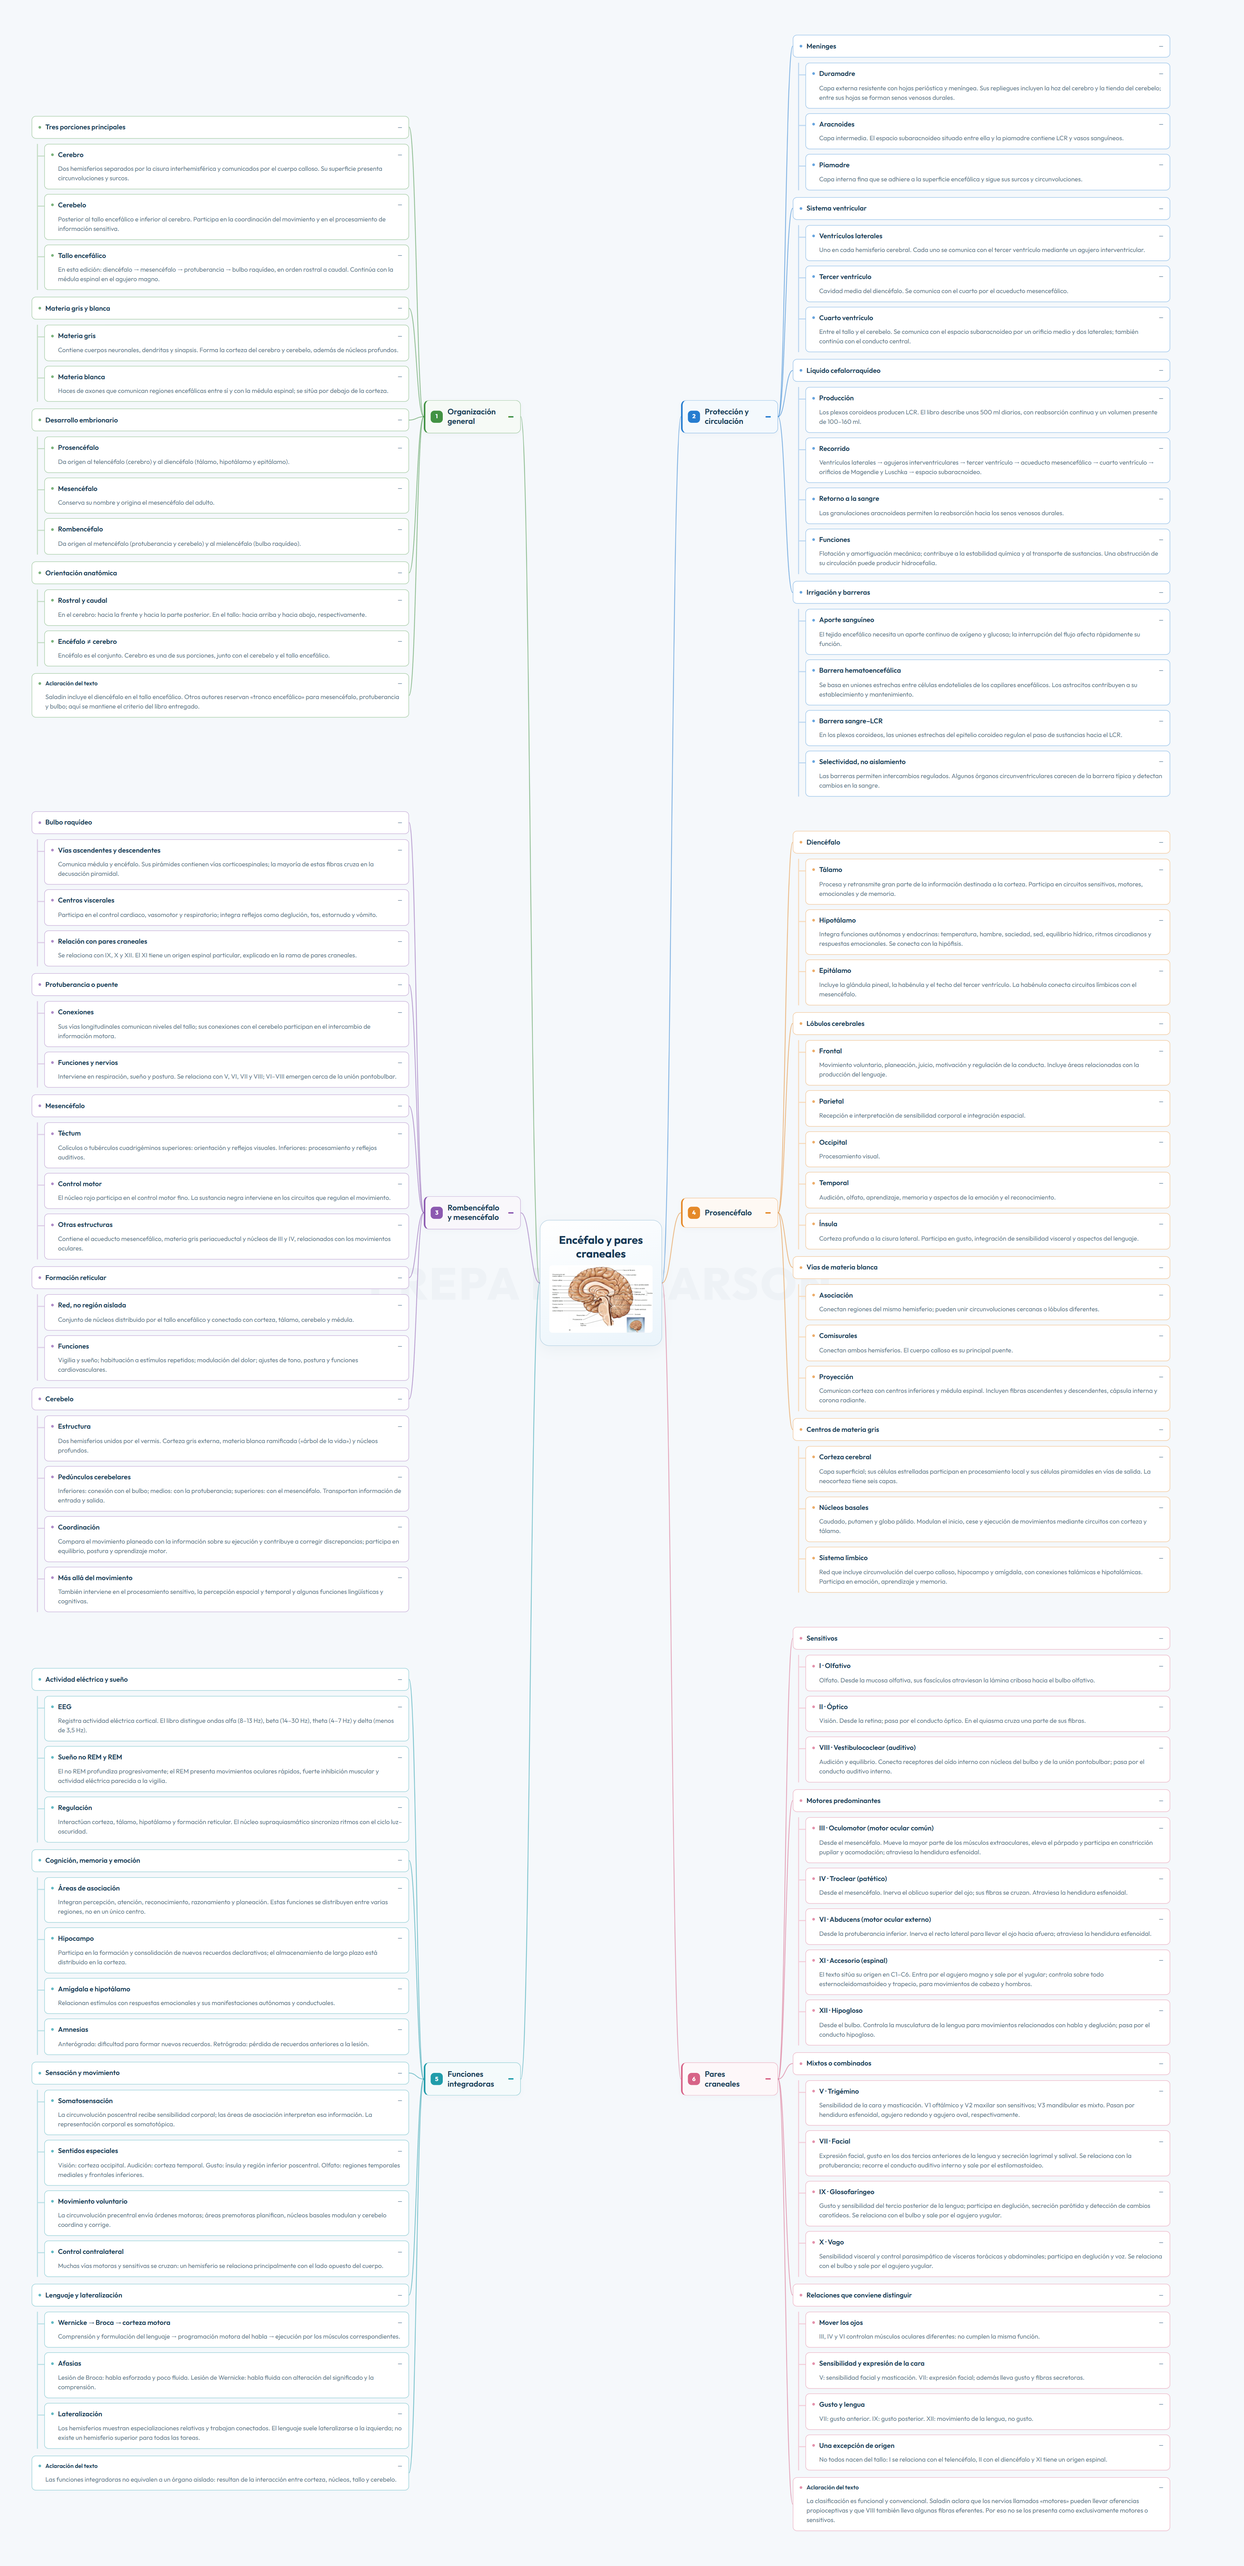
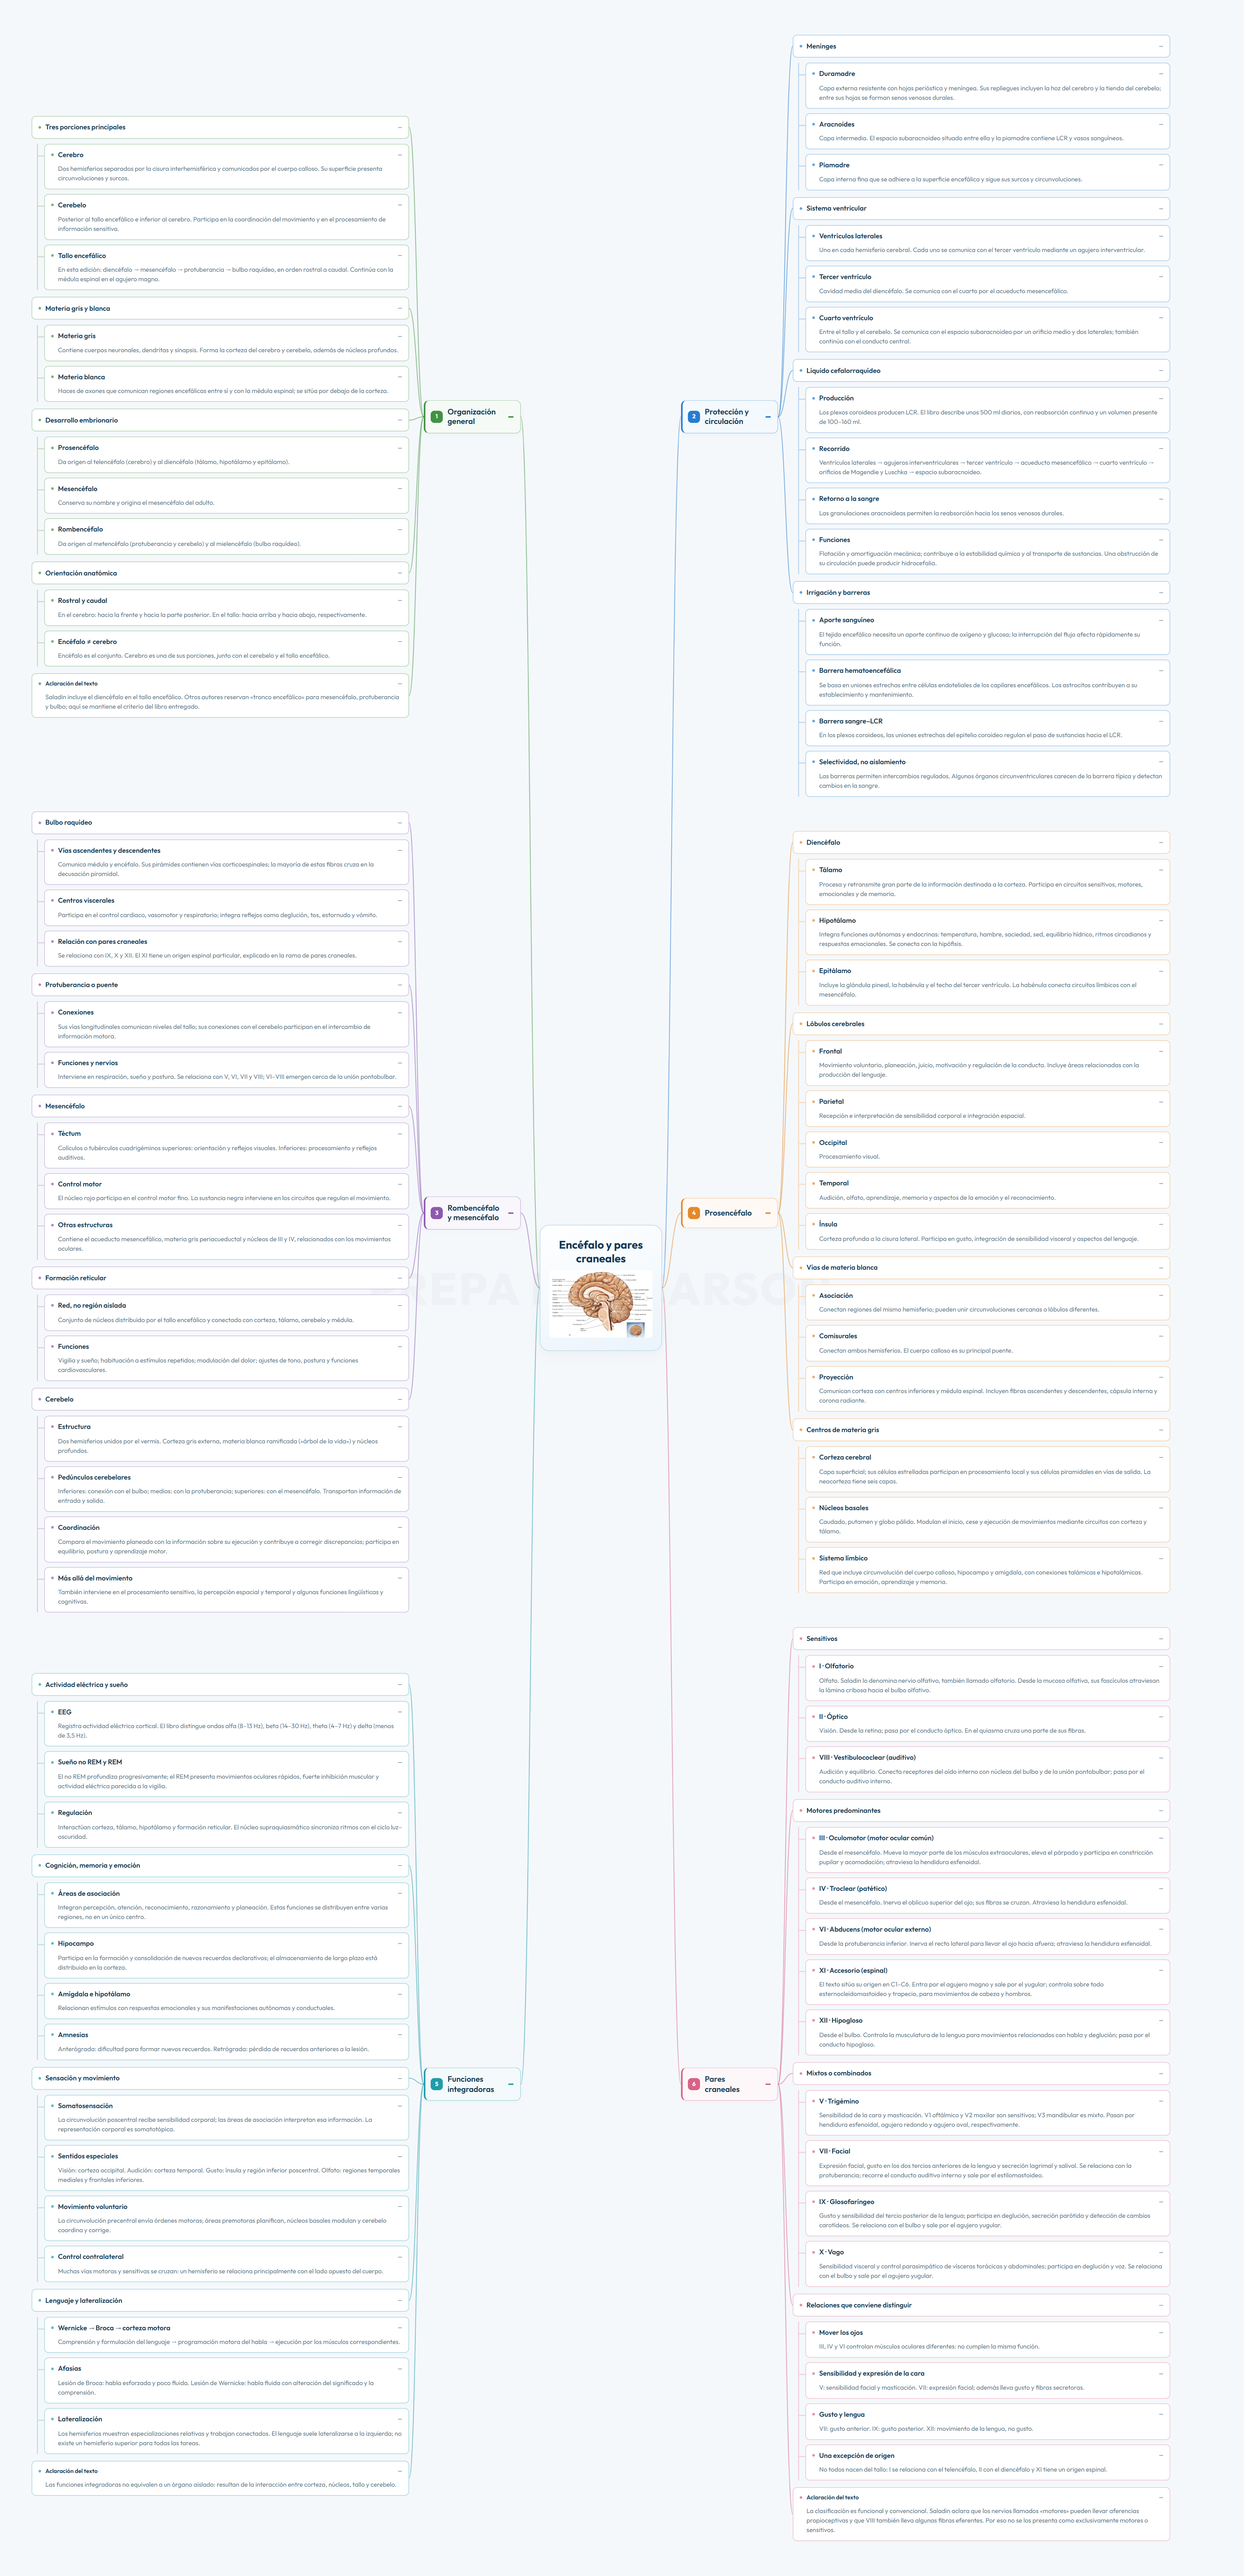
Clarify olfactory nerve label against supplied Saladin text

diff --git a/mindmap-viewer.js b/mindmap-viewer.js
@@ -88,7 +88,7 @@
   $('mm-branch-all').addEventListener('click',function(){setAll(true);});$('mm-branch-none').addEventListener('click',function(){setAll(false);});
   $('mm-tools-toggle').addEventListener('click',function(){var bar=$('mm-lightbox').querySelector('.mm-branch-bar'),open=!bar.classList.contains('is-expanded');bar.classList.toggle('is-expanded',open);$('mm-tools-toggle').setAttribute('aria-expanded',String(open));fit();});
   $('mm-true-fullscreen').addEventListener('click',function(){var viewer=$('mm-lightbox');if(document.fullscreenElement===viewer)document.exitFullscreen();else if(viewer.requestFullscreen)viewer.requestFullscreen().catch(function(){});});
-  $('mm-lb-download').addEventListener('click',function(){if(!objectUrl&&!detailsFor(activeMap))return;var link=el('a','');link.href=detailsFor(activeMap)?'/assets/mindmaps/encefalo/mapa-completo.png?v=1':objectUrl;link.download=detailsFor(activeMap)?'Encefalo-y-pares-craneales-Ben-Carson.png':fileFor(activeMap).replace(/\.[^.]+$/,'')+'-prepa-ben-carson.webp';document.body.appendChild(link);link.click();link.remove();});
+  $('mm-lb-download').addEventListener('click',function(){if(!objectUrl&&!detailsFor(activeMap))return;var link=el('a','');link.href=detailsFor(activeMap)?'/assets/mindmaps/encefalo/mapa-completo.png?v=2':objectUrl;link.download=detailsFor(activeMap)?'Encefalo-y-pares-craneales-Ben-Carson.png':fileFor(activeMap).replace(/\.[^.]+$/,'')+'-prepa-ben-carson.webp';document.body.appendChild(link);link.click();link.remove();});
   var stage=document.querySelector('.mm-lb-stage'),pan=null;
   stage.addEventListener('wheel',function(event){if(!event.ctrlKey)return;event.preventDefault();setZoom(zoom+(event.deltaY<0?.1:-.1),true);},{passive:false});
   stage.addEventListener('pointerdown',function(event){if(event.pointerType!=='mouse'||event.button!==0||event.target.closest('button'))return;pan={id:event.pointerId,x:event.clientX,y:event.clientY,left:stage.scrollLeft,top:stage.scrollTop};stage.setPointerCapture(event.pointerId);stage.classList.add('is-panning');});

diff --git a/mindmap-detailed-content.js b/mindmap-detailed-content.js
@@ -447,8 +447,8 @@ window.MINDMAP_DETAILED_CONTENT = {
           "relation": "clasificación habitual",
           "items": [
             {
-              "title": "I · Olfativo",
-              "text": "Olfato. Desde la mucosa olfativa, sus fascículos atraviesan la lámina cribosa hacia el bulbo olfativo."
+              "title": "I · Olfatorio",
+              "text": "Olfato. Saladin lo denomina nervio olfativo, también llamado olfatorio. Desde la mucosa olfativa, sus fascículos atraviesan la lámina cribosa hacia el bulbo olfativo."
             },
             {
               "title": "II · Óptico",

diff --git a/assets/mindmaps/encefalo/mapa.html b/assets/mindmaps/encefalo/mapa.html
@@ -458,8 +458,8 @@ const data=[
         "relation": "clasificación habitual",
         "items": [
           {
-            "title": "I · Olfativo",
-            "text": "Olfato. Desde la mucosa olfativa, sus fascículos atraviesan la lámina cribosa hacia el bulbo olfativo."
+            "title": "I · Olfatorio",
+            "text": "Olfato. Saladin lo denomina nervio olfativo, también llamado olfatorio. Desde la mucosa olfativa, sus fascículos atraviesan la lámina cribosa hacia el bulbo olfativo."
           },
           {
             "title": "II · Óptico",

diff --git a/campus.html b/campus.html
@@ -1340,8 +1340,8 @@
     <script src="script.js?v=45"></script>
     <script src="mindmap-branch-labels.js?v=3"></script>
     <script src="mindmap-content.js?v=1"></script>
-    <script src="mindmap-detailed-content.js?v=1"></script>
-    <script src="mindmap-viewer.js?v=9"></script>
+    <script src="mindmap-detailed-content.js?v=2"></script>
+    <script src="mindmap-viewer.js?v=10"></script>
     <script src="intocables-hub.js?v=1"></script>
     <script src="simulacro-ingreso.js?v=2"></script>
     <script src="student-library.js?v=8"></script>

diff --git a/sw.js b/sw.js
@@ -1,4 +1,4 @@
-const CACHE_NAME = 'alcocermed-main-v65';
+const CACHE_NAME = 'alcocermed-main-v66';
 const APP_SHELL = [
     './campus',
     './campus.html',
@@ -32,8 +32,8 @@ const APP_SHELL = [
     './script.js?v=45',
     './mindmap-branch-labels.js?v=3',
     './mindmap-content.js?v=1',
-    './mindmap-detailed-content.js?v=1',
-    './mindmap-viewer.js?v=9',
+    './mindmap-detailed-content.js?v=2',
+    './mindmap-viewer.js?v=10',
     './mindmap-viewer.css?v=3',
     './intocables-hub.js?v=1',
     './simulacro-ingreso.js?v=2',
